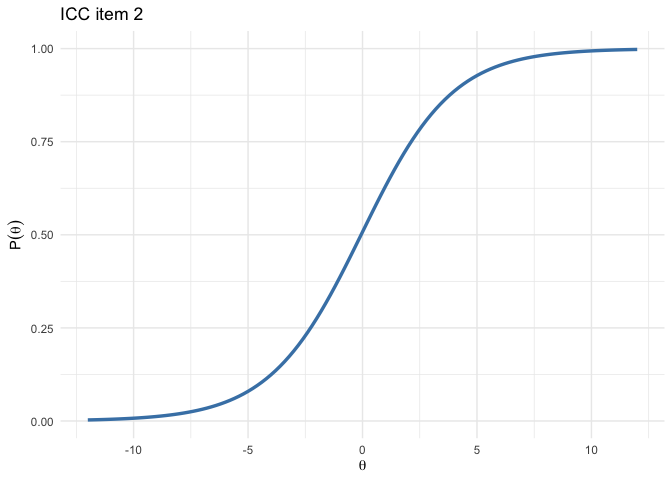
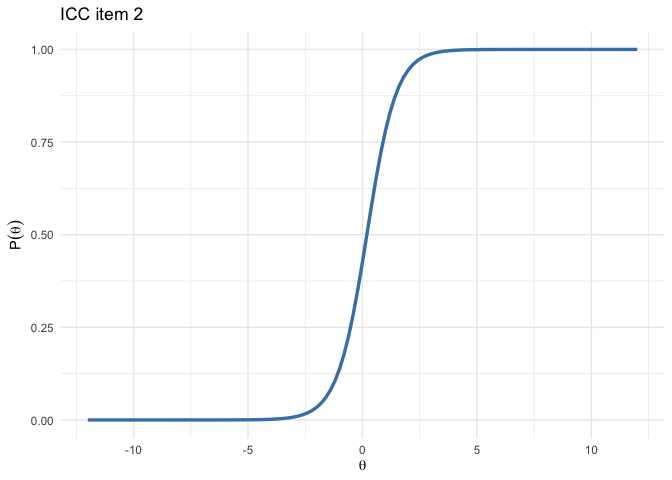
Add files via upload

diff --git a/README.md b/README.md
@@ -5,16 +5,17 @@
 library(AsymmIRT)
 ```
 
-# AsymmIRT: Bayesian analysis of asymmetrical IRT models (RLPE, LPE) models and symmetrical IRT models
+# AsymmIRT: Bayesian analysis of asymmetric IRT models (RLPE, LPE) models and symmetric IRT models
 
 <!-- badges: start -->
 
+[![R-CMD-check](https://github.com/Asymmetrical-irt/AsymmIRT/actions/workflows/R-CMD-check.yaml/badge.svg)](https://github.com/Asymmetrical-irt/AsymmIRT/actions/workflows/R-CMD-check.yaml)
 <!-- badges: end -->
 
-The goal of AsymmIRT is to perform bayesian analysis of asymmetrical IRT
-models (e.g 1PLPE, 1PRLPE, LPE, RLPE) and widely known symmetrical
-models such as 1PL and 2PL. The family of LPE models considers a
-parameter which introduces asymmetry in the ICC.
+The goal of AsymmIRT is to perform bayesian analysis of asymmetric IRT
+models (e.g 1PLPE, 1PRLPE, LPE, RLPE) and widely known symmetric models
+such as 1PL and 2PL. The family of LPE models considers a parameter
+which introduces asymmetry in the ICC.
 
 ## Installation
 
@@ -37,16 +38,14 @@ and the parameters of the simulated data. There is also a way to print a
 summary of the dataset.
 
 ``` r
-j = 20 ## number of items
-k = 4      ## number of individuals
-model_type   = "LPE"   ## type of model to simulate data from (e.g LPE, RLPE,1PRLPE)
-seed = 123  
-```
-
-``` r
 library(AsymmIRT)
 
-data <- simData(j =20 , k = 4, seed = 123,model_type ="LPE")
+n = 25      ## number of individuals
+k = 20 ## number of items
+model_type   = "LPE"   ## type of model to simulate data from (e.g LPE, RLPE,1PRLPE)
+seed = 123  
+
+data <- simData(n=n , k=k, seed=seed, model_type="LPE")
 
 
 plot(data)
@@ -64,31 +63,30 @@ plot(data)
 ``` r
 print(data)
 #>         mean    sd proportion_0 proportion_1 kappa
-#> Item_1  1.00 0.000         0.00         1.00   1.0
-#> Item_2  0.50 0.577         0.50         0.50   0.0
-#> Item_3  1.00 0.000         0.00         1.00   1.0
-#> Item_4  0.75 0.500         0.25         0.75   0.5
-#> Item_5  0.25 0.500         0.75         0.25   0.5
-#> Item_6  1.00 0.000         0.00         1.00   1.0
-#> Item_7  0.75 0.500         0.25         0.75   0.5
-#> Item_8  1.00 0.000         0.00         1.00   1.0
-#> Item_9  1.00 0.000         0.00         1.00   1.0
-#> Item_10 0.25 0.500         0.75         0.25   0.5
-#> Item_11 0.25 0.500         0.75         0.25   0.5
-#> Item_12 0.75 0.500         0.25         0.75   0.5
-#> Item_13 0.25 0.500         0.75         0.25   0.5
-#> Item_14 1.00 0.000         0.00         1.00   1.0
-#> Item_15 0.75 0.500         0.25         0.75   0.5
-#> Item_16 0.25 0.500         0.75         0.25   0.5
-#> Item_17 0.00 0.000         1.00         0.00   1.0
-#> Item_18 0.25 0.500         0.75         0.25   0.5
-#> Item_19 0.25 0.500         0.75         0.25   0.5
-#> Item_20 0.00 0.000         1.00         0.00   1.0
+#> Item_1  0.92 0.277         0.08         0.92  0.84
+#> Item_2  0.44 0.507         0.56         0.44  0.12
+#> Item_3  0.72 0.458         0.28         0.72  0.44
+#> Item_4  0.44 0.507         0.56         0.44  0.12
+#> Item_5  0.72 0.458         0.28         0.72  0.44
+#> Item_6  0.92 0.277         0.08         0.92  0.84
+#> Item_7  0.44 0.507         0.56         0.44  0.12
+#> Item_8  0.84 0.374         0.16         0.84  0.68
+#> Item_9  0.56 0.507         0.44         0.56  0.12
+#> Item_10 0.44 0.507         0.56         0.44  0.12
+#> Item_11 0.40 0.500         0.60         0.40  0.20
+#> Item_12 0.76 0.436         0.24         0.76  0.52
+#> Item_13 0.48 0.510         0.52         0.48  0.04
+#> Item_14 0.04 0.200         0.96         0.04  0.92
+#> Item_15 0.40 0.500         0.60         0.40  0.20
+#> Item_16 0.00 0.000         1.00         0.00  1.00
+#> Item_17 0.04 0.200         0.96         0.04  0.92
+#> Item_18 0.44 0.507         0.56         0.44  0.12
+#> Item_19 0.44 0.507         0.56         0.44  0.12
+#> Item_20 0.48 0.510         0.52         0.48  0.04
 #> 
 #> Items unbalanced according to kappa index:
-#>  [1] "Item_1"  "Item_3"  "Item_4"  "Item_5"  "Item_6"  "Item_7"  "Item_8" 
-#>  [8] "Item_9"  "Item_10" "Item_11" "Item_12" "Item_13" "Item_14" "Item_15"
-#> [15] "Item_16" "Item_17" "Item_18" "Item_19" "Item_20"
+#> [1] "Item_1"  "Item_3"  "Item_5"  "Item_6"  "Item_8"  "Item_12" "Item_14"
+#> [8] "Item_16" "Item_17"
 ```
 
 ## Fitting the data to a model
@@ -120,28 +118,30 @@ The data list, type of model and the **output** which is a R6
 CmdStanMCMC object.
 
 ``` r
-data <- simData(j =20 , k = 4, seed = 123,model_type ="LPE")
+data <- simData(n=25 , k=20, seed=123, model_type="LPE")
 fit <- AsymmIRT::fit_model(data = data$df, iter_warmup = iter_warmup, iter_sampling = iter_sampling, mod = "LPE2_log", seed = seed, chains = chains, parallel_chains = parallel_chains)
 #> Running MCMC with 2 parallel chains...
 #> 
 #> Chain 1 Iteration:   1 / 400 [  0%]  (Warmup) 
 #> Chain 1 Iteration: 100 / 400 [ 25%]  (Warmup) 
-#> Chain 1 Iteration: 200 / 400 [ 50%]  (Warmup) 
-#> Chain 1 Iteration: 201 / 400 [ 50%]  (Sampling) 
-#> Chain 1 Iteration: 300 / 400 [ 75%]  (Sampling) 
 #> Chain 2 Iteration:   1 / 400 [  0%]  (Warmup) 
 #> Chain 2 Iteration: 100 / 400 [ 25%]  (Warmup) 
+#> Chain 1 Iteration: 200 / 400 [ 50%]  (Warmup) 
+#> Chain 1 Iteration: 201 / 400 [ 50%]  (Sampling) 
 #> Chain 2 Iteration: 200 / 400 [ 50%]  (Warmup) 
 #> Chain 2 Iteration: 201 / 400 [ 50%]  (Sampling) 
+#> Chain 1 Iteration: 300 / 400 [ 75%]  (Sampling) 
 #> Chain 2 Iteration: 300 / 400 [ 75%]  (Sampling) 
 #> Chain 2 Iteration: 400 / 400 [100%]  (Sampling) 
+#> Chain 2 finished in 0.4 seconds.
 #> Chain 1 Iteration: 400 / 400 [100%]  (Sampling) 
-#> Chain 1 finished in 0.1 seconds.
-#> Chain 2 finished in 0.1 seconds.
+#> Chain 1 finished in 0.5 seconds.
 #> 
 #> Both chains finished successfully.
-#> Mean chain execution time: 0.1 seconds.
-#> Total execution time: 0.2 seconds.
+#> Mean chain execution time: 0.4 seconds.
+#> Total execution time: 0.6 seconds.
+#> Warning: 1 of 400 (0.0%) transitions ended with a divergence.
+#> See https://mc-stan.org/misc/warnings for details.
 ```
 
 ``` r
@@ -208,7 +208,7 @@ Here we can see the code of the model. In this example priors are
 
 The model 1PLPE is:
 
-![p\_{ij}^{1PLPE} = P(Y\_{ij} = 1) = \left( \frac{\exp(\theta - b)}{\exp(\theta - b) + 1} \right)^{\lambda\_{j}}](https://latex.codecogs.com/png.latex?p_%7Bij%7D%5E%7B1PLPE%7D%20%3D%20P%28Y_%7Bij%7D%20%3D%201%29%20%3D%20%5Cleft%28%20%5Cfrac%7B%5Cexp%28%5Ctheta%20-%20b%29%7D%7B%5Cexp%28%5Ctheta%20-%20b%29%20%2B%201%7D%20%5Cright%29%5E%7B%5Clambda_%7Bj%7D%7D "p_{ij}^{1PLPE} = P(Y_{ij} = 1) = \left( \frac{\exp(\theta - b)}{\exp(\theta - b) + 1} \right)^{\lambda_{j}}")
+![p\_{ij}^{1PLPE} = P(Y\_{ij} = 1) = \left( \frac{\exp(\theta - b)}{1 + \exp(\theta - b) } \right)^{\lambda\_{j}}](https://latex.codecogs.com/png.latex?p_%7Bij%7D%5E%7B1PLPE%7D%20%3D%20P%28Y_%7Bij%7D%20%3D%201%29%20%3D%20%5Cleft%28%20%5Cfrac%7B%5Cexp%28%5Ctheta%20-%20b%29%7D%7B1%20%2B%20%5Cexp%28%5Ctheta%20-%20b%29%20%7D%20%5Cright%29%5E%7B%5Clambda_%7Bj%7D%7D "p_{ij}^{1PLPE} = P(Y_{ij} = 1) = \left( \frac{\exp(\theta - b)}{1 + \exp(\theta - b) } \right)^{\lambda_{j}}")
 
 Now it is possible to delve into the bayesian analysis. Notice that WAIC
 and loo accept other arguments, for further information visit the
@@ -216,43 +216,43 @@ webpage of the **loo** package.
 
 ``` r
 summary(fit,variable = c("b","theta","lambda"), ci = 0.95)
-#> # A tibble: 44 × 12
-#>    variable    mean  median    sd   mad     q5   q95  rhat ess_bulk ess_tail
-#>    <chr>      <dbl>   <dbl> <dbl> <dbl>  <dbl> <dbl> <dbl>    <dbl>    <dbl>
-#>  1 b[1]     -0.800  -0.826  0.827 0.735 -2.12  0.590 1.00      336.     293.
-#>  2 b[2]      0.0181  0.0479 1.06  1.04  -1.78  1.69  0.998     620.     312.
-#>  3 b[3]     -0.761  -0.801  0.920 0.827 -2.23  0.795 1.02      389.     318.
-#>  4 b[4]     -0.215  -0.239  0.891 0.852 -1.62  1.44  1.01      248.     141.
-#>  5 b[5]      0.416   0.509  0.888 0.763 -1.30  1.80  1.00      367.     265.
-#>  6 b[6]     -0.778  -0.849  0.947 0.936 -2.16  0.989 1.01      412.     197.
-#>  7 b[7]     -0.252  -0.258  0.847 0.827 -1.62  1.04  0.998     443.     295.
-#>  8 b[8]     -0.781  -0.766  0.808 0.744 -2.22  0.511 1.00      424.     312.
-#>  9 b[9]     -0.775  -0.763  0.882 0.803 -2.12  0.606 1.01      371.     276.
-#> 10 b[10]     0.468   0.519  0.817 0.706 -0.995 1.76  1.01      433.     307.
-#> # ℹ 34 more rows
+#> # A tibble: 65 × 12
+#>    variable    mean median    sd   mad     q5     q95  rhat ess_bulk ess_tail
+#>    <chr>      <dbl>  <dbl> <dbl> <dbl>  <dbl>   <dbl> <dbl>    <dbl>    <dbl>
+#>  1 b[1]     -1.34   -1.35  0.569 0.509 -2.22  -0.244  0.999     389.     344.
+#>  2 b[2]      0.228   0.239 0.587 0.586 -0.754  1.22   1.00      477.     367.
+#>  3 b[3]     -0.694  -0.709 0.391 0.336 -1.29  -0.0605 1.01      322.     296.
+#>  4 b[4]      0.202   0.239 0.771 0.694 -1.12   1.42   1.00      310.     219.
+#>  5 b[5]     -0.646  -0.662 0.588 0.512 -1.61   0.344  1.01      382.     289.
+#>  6 b[6]     -1.27   -1.35  0.685 0.632 -2.30  -0.0817 1.01      467.     306.
+#>  7 b[7]      0.278   0.239 0.810 0.865 -1.02   1.63   1.01      461.     344.
+#>  8 b[8]     -0.900  -0.915 0.669 0.582 -2.02   0.249  1.01      542.     312.
+#>  9 b[9]      0.0287  0.110 0.937 0.905 -1.46   1.48   1.00      397.     289.
+#> 10 b[10]     0.320   0.327 0.892 0.923 -1.09   1.71   0.999     432.     272.
+#> # ℹ 55 more rows
 #> # ℹ 2 more variables: HDI_low <dbl>, HDI_high <dbl>
 ```
 
 ``` r
 DIC(fit)
 #> DIC ------
-#> [1] 98.08827
+#> [1] 469.2878
 ```
 
 ``` r
 WAIC(fit)
 #> Warning: 
-#> 5 (6.2%) p_waic estimates greater than 0.4. We recommend trying loo instead.
+#> 20 (4.0%) p_waic estimates greater than 0.4. We recommend trying loo instead.
 #> WAIC ------
 #> 
-#> Computed from 400 by 80 log-likelihood matrix.
+#> Computed from 400 by 500 log-likelihood matrix.
 #> 
-#>           Estimate  SE
-#> elpd_waic    -42.2 3.4
-#> p_waic        11.9 1.2
-#> waic          84.3 6.8
+#>           Estimate   SE
+#> elpd_waic   -218.3 10.3
+#> p_waic        39.7  2.8
+#> waic         436.5 20.5
 #> 
-#> 5 (6.2%) p_waic estimates greater than 0.4. We recommend trying loo instead.
+#> 20 (4.0%) p_waic estimates greater than 0.4. We recommend trying loo instead.
 ```
 
 ``` r
@@ -260,21 +260,21 @@ loo(fit)
 #> Warning: Some Pareto k diagnostic values are too high. See help('pareto-k-diagnostic') for details.
 #> LOO ------
 #> 
-#> Computed from 400 by 80 log-likelihood matrix.
+#> Computed from 400 by 500 log-likelihood matrix.
 #> 
-#>          Estimate  SE
-#> elpd_loo    -43.0 3.5
-#> p_loo        12.7 1.4
-#> looic        85.9 7.1
+#>          Estimate   SE
+#> elpd_loo   -219.9 10.4
+#> p_loo        41.3  3.0
+#> looic       439.9 20.8
 #> ------
 #> MCSE of elpd_loo is NA.
-#> MCSE and ESS estimates assume MCMC draws (r_eff in [0.6, 1.8]).
+#> MCSE and ESS estimates assume MCMC draws (r_eff in [0.5, 1.7]).
 #> 
 #> Pareto k diagnostic values:
 #>                           Count Pct.    Min. ESS
-#> (-Inf, 0.62]   (good)     69    86.2%   133     
-#>    (0.62, 1]   (bad)      10    12.5%   <NA>    
-#>     (1, Inf)   (very bad)  1     1.2%   <NA>    
+#> (-Inf, 0.62]   (good)     478   95.6%   74      
+#>    (0.62, 1]   (bad)       21    4.2%   <NA>    
+#>     (1, Inf)   (very bad)   1    0.2%   <NA>    
 #> See help('pareto-k-diagnostic') for details.
 ```
 
@@ -291,3 +291,21 @@ item_info(fit, item = 2, theta_lim = c(-12,12))
 ```
 
 ![](README_files/figure-gfm/item_info-1.png)<!-- -->
+
+To visually diagnose the convergence of the MCMC chains, the package
+AsymmIRT also allows to obtain traceplots of the parameter
+
+``` r
+plot_trace(fit, variable = "b")
+```
+
+![](README_files/figure-gfm/item_plot_trace-1.png)<!-- -->
+
+Adittionally, to plot the HPD intervals alongside the estimation median
+the user can use the plot method of the Asymmfit class
+
+``` r
+plot(fit, variable = "b")
+```
+
+![](README_files/figure-gfm/hpd-1.png)<!-- -->
